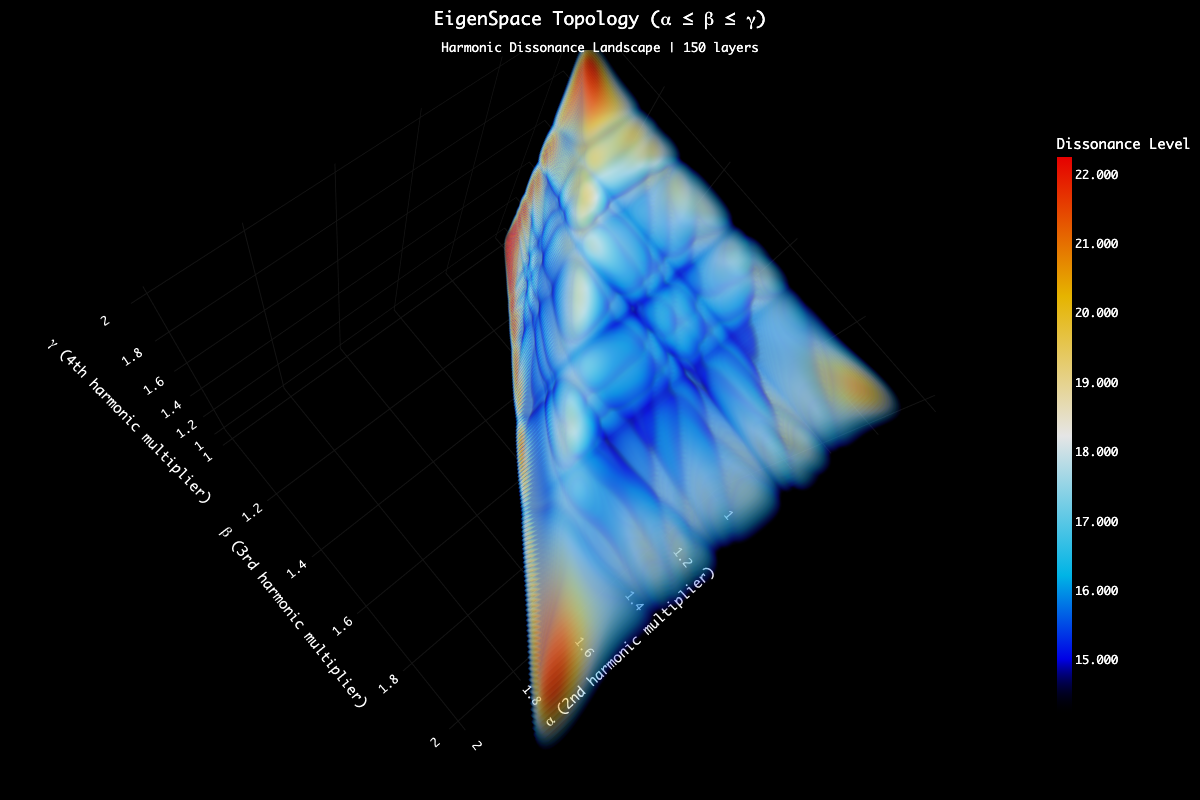
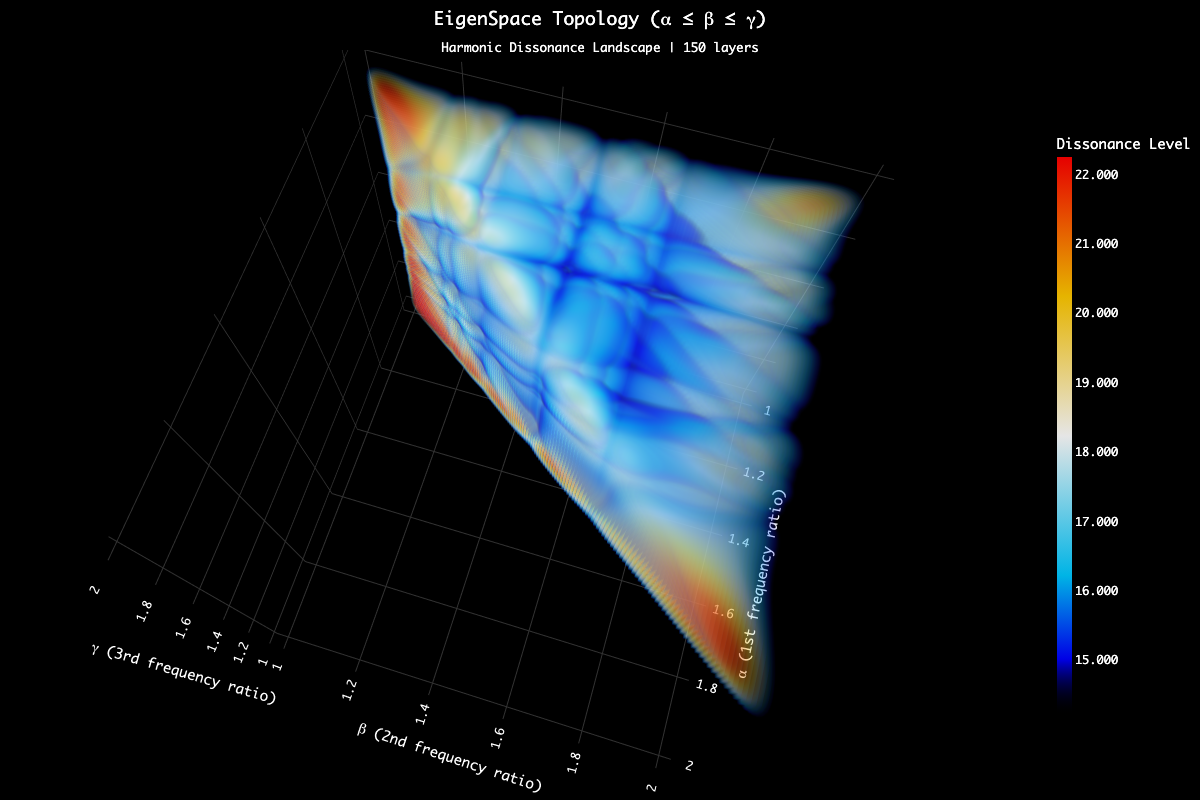
new version

diff --git a/info_overlay.js b/info_overlay.js
@@ -57,10 +57,10 @@ class InfoOverlay {
                     <h3>The 4D Space</h3>
                     <p>The four dimensions are:</p>
                     <ul>
-                        <li><strong class="alpha-color">α</strong> (alpha) - x axis interval ratio</li>
-                        <li><strong class="beta-color">β</strong> (beta) - y axis interval ratio</li>
-                        <li><strong class="gamma-color">γ</strong> (gamma) - z axis interval ratio</li>
                         <li><strong class="root-color">Root</strong> - (origin) The fundamental frequency</li>
+                        <li><strong class="alpha-color">α</strong> (alpha) - x axis, 1st frequency ratio</li>
+                        <li><strong class="beta-color">β</strong> (beta) - y axis, 2nd frequency ratio</li>
+                        <li><strong class="gamma-color">γ</strong> (gamma) - z axis, 3rd frequency ratio</li>
                     </ul>
                 </div>
 
@@ -68,8 +68,9 @@ class InfoOverlay {
                     <h3>The Eigenspace View</h3>
                     <p>
                         What you see is a <strong>3D visualization</strong> of tetrachord dissonance relationships. Each axis represents 
-                        the interaction of <strong>6 harmonics</strong> (1, 2, 3, 4, 5, 6) at different frequency ratios, computed using 
-                        the <em>Plomp-Levelt</em> roughness model from Sethares' <em>Tuning, Timbre, Spectrum, Scale</em>.
+                        the interaction of <strong>6 first harmonics</strong> at different frequency ratios, computed using 
+                        the <em>Plomp-Levelt</em> roughness model from Sethares' <a href="https://sethares.engr.wisc.edu/ttss.html" target="_blank"><em>Tuning, Timbre, Spectrum, Scale</em></a>.
+                        The visualization maps dissonance values across all possible combinations of the three frequency ratios, creating a 3D landscape of psychoacoustic roughness.
                     </p>
                     <p>
                         The color scale reveals <strong>intersection zones</strong> where harmonic interactions create varying 
@@ -78,7 +79,7 @@ class InfoOverlay {
                     </p>
                     <p>
                         Like Helmholtz's roughness curves and Plomp-Levelt's consonance curves, this dissonance map shows 
-                        that <strong>familiar musical intervals occur near minima</strong> - the "valleys" where multiple 
+                        that <strong>familiar musical intervals occur near local-minima</strong> - the "valleys" where multiple 
                         harmonic series align with minimal beating between partials.
                     </p>
                     
@@ -110,8 +111,7 @@ class InfoOverlay {
 
                 <div class="technical-note">
                     <strong>Technical Note:</strong>
-                    This visualization uses computational psychoacoustics to map an imaginary space of harmonic possibilities. 
-                    The local minima (white numbered dots) correspond to just intonation intervals and microtonal consonances out of tone equal temperaments rations.
+                    The local minima are shown in white numbered dots, which correspond to just intonation intervals.
                 </div>
             </div>
 

diff --git a/style.css b/style.css
@@ -66,12 +66,6 @@ body {
     border-color: rgba(255, 255, 255, 0.6);
 }
 
-#controls select:focus {
-    outline: none;
-    border-color: rgb(80, 196, 80);
-    box-shadow: 0 0 5px rgba(80, 196, 80, 0.5);
-}
-
 #click-output {
     text-align: center;
     font-size: 16px;
@@ -154,19 +148,31 @@ body {
     transform: translateY(-50%);
     z-index: 100;
     font-family: monaco, Figtree, Arial, sans-serif;
+    transition: right 0.5s cubic-bezier(0.25, 0.46, 0.45, 0.94);
 }
 
+/* Hidden state for slider when in Full 3D mode */
+#colorbar-container.hidden {
+    right: -200px;
+}
+
+/* Switch to Full 3D View */
 #viz-mode-toggle {
+    position: fixed;
+    top: 50px;
+    left: 50%;
+    transform: translateX(-50%);
     background: rgba(0, 111, 229, 0.8);
-    color: white;
     border: none;
-    padding: 10px 20px;
-    border-radius: 5px;
+    color: white;
+    padding: 8px 20px;
+    font-size: 14px;
+    font-family: 'Monaco', 'Courier New', monospace;
+    font-weight: light;
+    border-radius: 8px;
     cursor: pointer;
-    font-family: monaco, sans-serif;
-    font-size: 13px;
-    margin-top: 10px;
-    transition: background 0.3s;
+    z-index: 9999;
+    transition: all 0.2s ease;
 }
 
 #viz-mode-toggle:hover {
@@ -181,7 +187,7 @@ body {
     top: 60px !important;
     right: 15px !important;
     z-index: 150 !important;
-    background: rgba(0, 0, 0, 0.8) !important;
+    background: rgba(0, 0, 0, 0.5) !important;
     border-radius: 6px !important;
     padding: 4px !important;
 }
@@ -194,6 +200,19 @@ body {
 
 .modebar-btn:hover {
     background: rgba(255, 255, 255, 0.2) !important;
+}
+
+/* Plotly legend styling - rounded corners */
+.legend {
+    border-radius: 20px !important;
+}
+
+.legendtext {
+    border-radius: 4px !important;
+}
+
+.legendtoggle {
+    border-radius: 4px !important;
 }
 
 /* ============================================================================
@@ -406,13 +425,13 @@ body {
 }
 
 #info-overlay ::-moz-selection {
-    background: rgba(5, 213, 255, 0.3);
+    background: rgba(0, 0, 0, 0.0);
     color: white;
 }
 
 /* Link styling (if you add any links) */
 #info-overlay a {
-    color: rgba(5, 213, 255, 1);
+    color: rgb(5, 130, 255);
     text-decoration: none;
     border-bottom: 1px solid rgba(5, 213, 255, 0.3);
     transition: all 0.2s ease;

diff --git a/colorbar-slider.js b/colorbar-slider.js
@@ -121,17 +121,17 @@ const colorbarSketch = (p) => {
         p.text('Low', x - 5, y + BAR_HEIGHT - 10);
 
         // Current range
-        if (thresholds.length > 0 && currentStep < thresholds.length) {
-            const threshold = thresholds[currentStep];
-            const lowerBound = threshold - windowSize / 2;
-            const upperBound = threshold + windowSize / 2;
+        // if (thresholds.length > 0 && currentStep < thresholds.length) {
+        //     const threshold = thresholds[currentStep];
+        //     const lowerBound = threshold - windowSize / 2;
+        //     const upperBound = threshold + windowSize / 2;
 
-            p.textAlign(p.CENTER);
-            p.textSize(11);
-            p.fill(255);
-            p.text(`${lowerBound.toFixed(3)}`, x + BAR_WIDTH / 2, y + BAR_HEIGHT + 10);
-            p.text(`${upperBound.toFixed(3)}`, x + BAR_WIDTH / 2, y + BAR_HEIGHT + 22);
-        }
+        //     p.textAlign(p.CENTER);
+        //     p.textSize(10);
+        //     p.fill(255);
+        //     p.text(`${lowerBound.toFixed(3)}`, x + BAR_WIDTH / 2, y + BAR_HEIGHT + 10);
+        //     p.text(`${upperBound.toFixed(3)}`, x + BAR_WIDTH / 2, y + BAR_HEIGHT + 21);
+        // }
     }
 
     function getGradientColor(t) {

diff --git a/test.js b/test.js
@@ -1283,8 +1283,8 @@ function createVisualization(data, baseFreq, numNodes = 15) {
             aspectmode: 'cube'
         },
         legend: {
-            x: 0.98,
-            y: 1,
+            x: 0.99,
+            y: 0.94,
             xanchor: 'right',
             yanchor: 'top',
             bgcolor: 'rgba(0,0,0,0.8)',
@@ -1531,9 +1531,21 @@ function toggleVisualizationMode() {
         // Single update: visibility only (no Plotly slider)
         Plotly.update(plotDiv, { visible: visibilityArray }, {});
 
+        // Hide slider with smooth animation
+        const colorbarContainer = document.getElementById('colorbar-container');
+        if (colorbarContainer) {
+            colorbarContainer.classList.add('hidden');
+        }
+
     } else {
         // Switch to SECTIONED mode
         visualizationMode = 'sectioned';
+
+        // Show slider with smooth animation
+        const colorbarContainer = document.getElementById('colorbar-container');
+        if (colorbarContainer) {
+            colorbarContainer.classList.remove('hidden');
+        }
 
         visibilityArray[0] = false; // Full 3D trace hidden
 

diff --git a/index_test.html b/index_test.html
@@ -12,9 +12,6 @@
     <div id="container">
         <div id="header">
             <h1>Harmonic Eigenspace</h1>
-            <button id="viz-mode-toggle">
-                Switch to Full 3D View
-            </button>
         </div>
 
         <div id="progress-container" style="display:none;">
@@ -27,6 +24,11 @@
         <div id="plot"></div>
         <div id="click-output">Computing visualization...</div>
     </div>
+
+    <!-- Fixed positioned buttons -->
+    <button id="viz-mode-toggle">
+        Switch to Full 3D View
+    </button>
 
     <!-- Your existing scripts -->
     <script src="binary-loader.js"></script>
